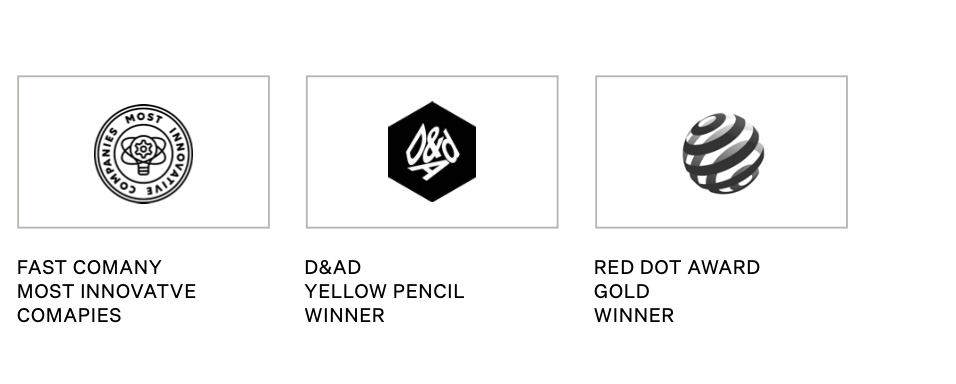
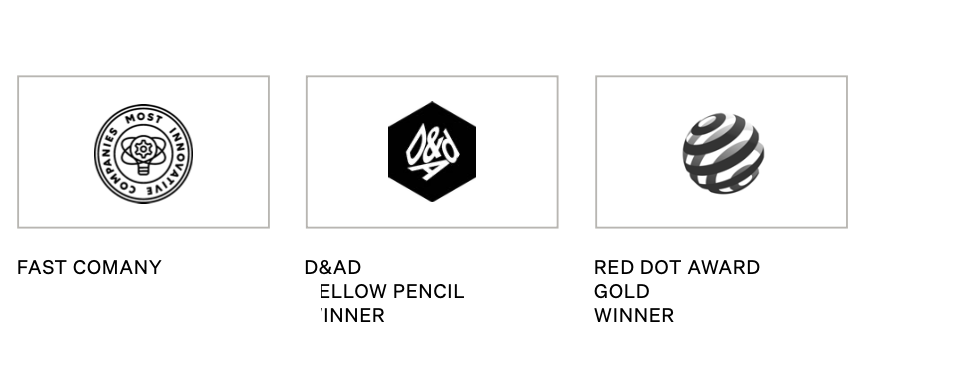
Replace awards images with HTML/CSS - fix spelling errors
- "FAST COMANY" -> "FAST COMPANY"
- "MOST INNOVATVE" -> "MOST INNOVATIVE"
- "COMAPIES" -> "COMPANIES"
- Extracted logo boxes from original images
- Text now in HTML for easy editing

Changed region(s): [[0.0, 0.7188, 0.2123, 0.8438], [0.3033, 0.8125, 0.3337, 0.8438], [0.3033, 0.75, 0.3337, 0.7812]]

diff --git a/src/app/page.tsx b/src/app/page.tsx
@@ -267,16 +267,48 @@ export default function Home() {
 
             {/* Right - Awards */}
             <div ref={addToRefs} className="reveal space-y-4">
-              <img
-                src="/images/awards-1.png"
-                alt="Awards"
-                className="w-full max-w-[701px]"
-              />
-              <img
-                src="/images/awards-2.png"
-                alt="Awards"
-                className="w-full max-w-[656px]"
-              />
+              {/* Awards Row 1 */}
+              <div className="grid grid-cols-3 gap-4">
+                <div className="border border-black p-4 flex flex-col items-center justify-between aspect-square">
+                  <img src="/images/award-wci.png" alt="World Changing Ideas" className="h-16 object-contain" />
+                  <div className="text-[11px] font-bold uppercase text-center leading-tight mt-2">
+                    Fast Company<br />World Changing<br />Ideas
+                  </div>
+                </div>
+                <div className="border border-black p-4 flex flex-col items-center justify-between aspect-square">
+                  <img src="/images/award-cannes.png" alt="Cannes Lions" className="h-16 object-contain" />
+                  <div className="text-[11px] font-bold uppercase text-center leading-tight mt-2">
+                    Cannes Lions<br />Festival of Creativity<br />Grand Prix
+                  </div>
+                </div>
+                <div className="border border-black p-4 flex flex-col items-center justify-between aspect-square">
+                  <img src="/images/award-time.png" alt="Time Magazine" className="h-16 object-contain" />
+                  <div className="text-[11px] font-bold uppercase text-center leading-tight mt-2">
+                    Time Magazine<br />Invention of the<br />Year
+                  </div>
+                </div>
+              </div>
+              {/* Awards Row 2 */}
+              <div className="grid grid-cols-3 gap-4">
+                <div className="border border-black p-4 flex flex-col items-center justify-between aspect-square">
+                  <img src="/images/award-fc-innovative.png" alt="Most Innovative" className="h-16 object-contain" />
+                  <div className="text-[11px] font-bold uppercase text-center leading-tight mt-2">
+                    Fast Company<br />Most Innovative<br />Companies
+                  </div>
+                </div>
+                <div className="border border-black p-4 flex flex-col items-center justify-between aspect-square">
+                  <img src="/images/award-dad.png" alt="D&AD" className="h-16 object-contain" />
+                  <div className="text-[11px] font-bold uppercase text-center leading-tight mt-2">
+                    D&AD<br />Yellow Pencil<br />Winner
+                  </div>
+                </div>
+                <div className="border border-black p-4 flex flex-col items-center justify-between aspect-square">
+                  <img src="/images/award-reddot.png" alt="Red Dot" className="h-16 object-contain" />
+                  <div className="text-[11px] font-bold uppercase text-center leading-tight mt-2">
+                    Red Dot Award<br />Gold<br />Winner
+                  </div>
+                </div>
+              </div>
             </div>
           </div>
         </div>
